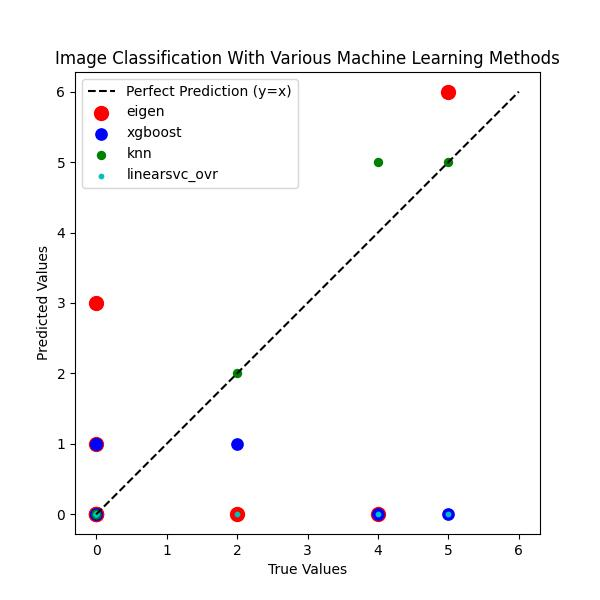
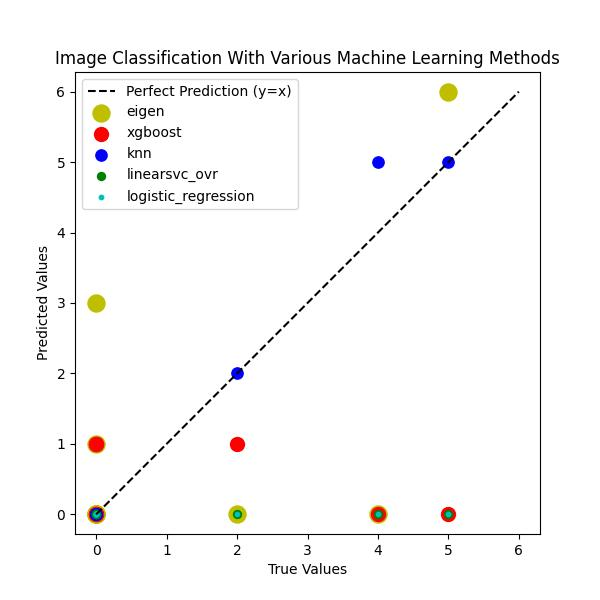
added log reg to graph

diff --git a/results/graph_accuracy.py b/results/graph_accuracy.py
@@ -18,9 +18,9 @@ CURR_MAX = 6
 
 def main():
 
-    methods = ['eigen', 'xgboost', 'knn', 'linearsvc_ovr']
-    colors = ['r', 'b', 'g', 'c']
-    size = [100, 66, 33, 10]
+    methods = ['eigen', 'xgboost', 'knn', 'linearsvc_ovr', 'logistic_regression']
+    colors = ['y', 'r', 'b', 'g', 'c']
+    size = [150, 100, 66, 33, 10]
 
     total_img = count_img('data/gray')
 
